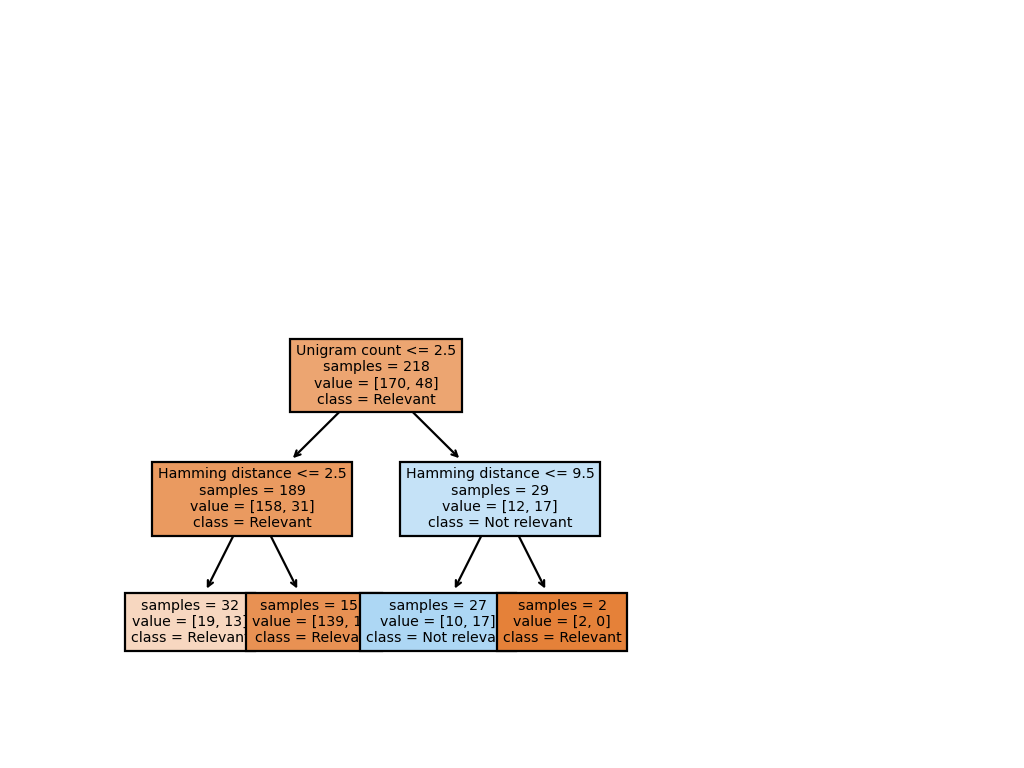
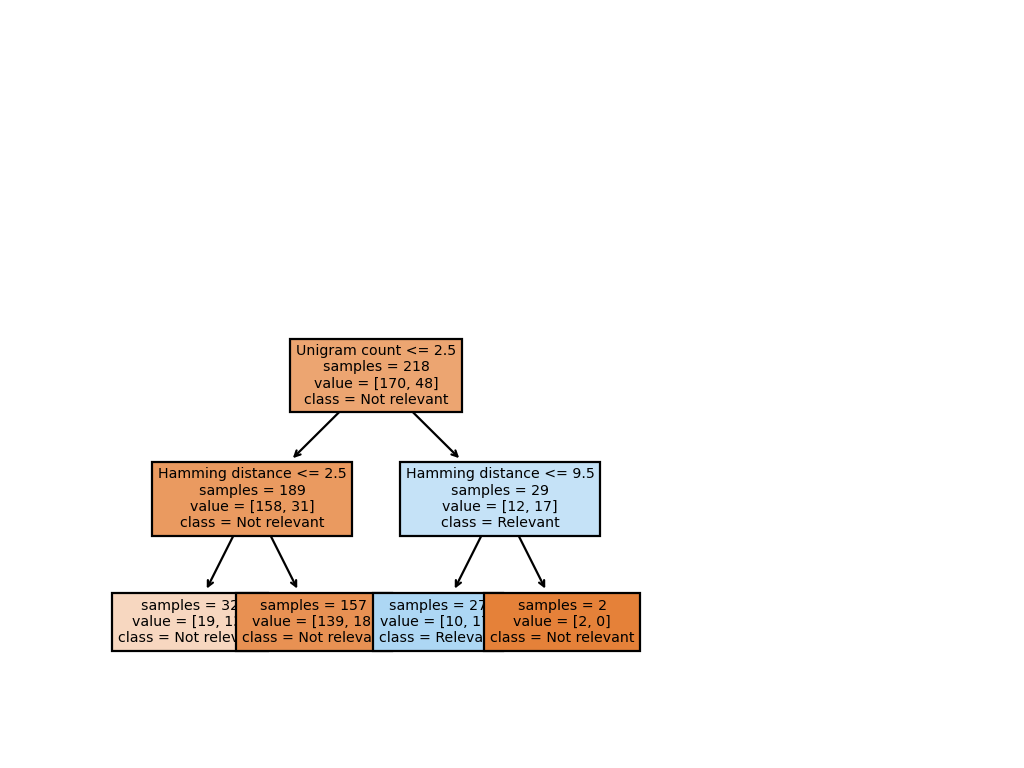
TensorFlow model for phrase similarity

diff --git a/chinesenotes/similarity_tf.py b/chinesenotes/similarity_tf.py
@@ -1,0 +1,121 @@
+# -*- coding: utf-8 -*-
+#
+# Licensed to the Apache Software Foundation (ASF) under one or more
+# contributor license agreements.  See the NOTICE file distributed with
+# this work for additional information regarding copyright ownership.
+# The ASF licenses this file to You under the Apache License, Version 2.0
+# (the "License"); you may not use this file except in compliance with
+# the License.  You may obtain a copy of the License at
+#
+#    http://www.apache.org/licenses/LICENSE-2.0
+#
+# Unless required by applicable law or agreed to in writing, software
+# distributed under the License is distributed on an "AS IS" BASIS,
+# WITHOUT WARRANTIES OR CONDITIONS OF ANY KIND, either express or implied.
+# See the License for the specific language governing permissions and
+# limitations under the License.
+#
+
+"""
+Trains a decision tree classifier for phrase similarity.
+
+Reads the input file and trains the classifier.
+"""
+
+import argparse
+import logging
+import numpy as np
+import pandas as pd
+import pathlib
+from sklearn.metrics import confusion_matrix
+import tensorflow as tf
+from tensorflow import feature_column
+from tensorflow import keras
+from tensorflow.keras import layers
+
+
+TRAIN_FILE_DEF = 'data/training_combined.csv'
+VALIDATION_FILE_DEF = 'data/validation_biyan.csv'
+
+
+def run(train_file: str, val_file: str):
+  """Load training and validation data and train the classifier
+
+  Args:
+    train_file: input file with phrase similarity training data
+    val_file: input file with phrase similarity training data
+  """
+  logging.info(f'Training data from: {train_file}')
+  train_df = pd.read_csv(train_file)
+  logging.info(f'Validation data from: {val_file}')
+  val_df = pd.read_csv(val_file)
+  print(train_df.head(3))
+  train_data = pd.DataFrame({
+    'QueryLength': train_df['Query'].str.len(),
+    'UnigramCount': train_df['Unigram Count'],
+    'Hamming': train_df['Hamming'],
+    'Relevant': train_df['Is Relevant']
+  })
+  val_data = pd.DataFrame({
+    'QueryLength': val_df['Query'].str.len(),
+    'UnigramCount': val_df['Unigram Count'],
+    'Hamming': val_df['Hamming'],
+    'Relevant': val_df['Is Relevant']
+  })
+  logging.info('Sample prepared data')
+  print(train_data.head(3))
+  logging.info('Summary of traininging data')
+  print(train_data.info())
+  logging.info('Summary of validation data')
+  print(train_data.info())
+  train_ds = to_dataset(train_data)
+  val_ds = to_dataset(val_data)
+  feature_columns = []
+  headers = ['QueryLength', 'UnigramCount', 'Hamming']
+  for header in headers:
+    feature_columns.append(feature_column.numeric_column(header))
+  feature_layer = tf.keras.layers.DenseFeatures(feature_columns)
+  model = tf.keras.Sequential([
+    feature_layer,
+    layers.Dense(128, activation='relu'),
+    layers.Dense(128, activation='relu'),
+    layers.Dropout(.1),
+    layers.Dense(1)
+  ])
+  model.compile(optimizer='adam',
+                loss=tf.keras.losses.BinaryCrossentropy(from_logits=True),
+                metrics=['accuracy'])
+  model.fit(train_ds,  validation_data=val_ds, epochs=10)
+  #y_pred = model.predict(train_ds)
+  #cm = confusion_matrix(headers, y_pred)
+  #print(cm)
+
+
+def to_dataset(df, batch_size=5):
+  """Convert from Pandas dataframe to TensorFlow dataset. """
+  df = df.copy()
+  labels = df.pop('Relevant')
+  ds = tf.data.Dataset.from_tensor_slices((dict(df), labels))
+  ds = ds.batch(batch_size)
+  return ds
+
+
+def main():
+  logging.basicConfig(level=logging.INFO)
+  parser = argparse.ArgumentParser()
+  parser.add_argument('--trainfile',
+                      dest='trainfile',
+                      default=TRAIN_FILE_DEF, 
+                      help='File name to read training data from')
+  parser.add_argument('--valfile',
+                      dest='valfile',
+                      default=VALIDATION_FILE_DEF, 
+                      help='File name to read validation data from')
+  args = parser.parse_args()
+  logging.info(f'Training neural net classifier from {args.trainfile}, output to {args.valfile}')
+  run(args.trainfile, args.valfile)
+
+
+# Entry point from a script
+if __name__ == "__main__":
+  main()

diff --git a/chinesenotes/similarity_train.py b/chinesenotes/similarity_train.py
@@ -32,11 +32,11 @@ from sklearn.metrics import classification_report
 from sklearn.tree import export_graphviz
 
 
-INFILE_DEF = 'data/phrase_similarity_training.csv'
+INFILE_DEF = 'data/phrase_similarity_combined.csv'
 OUTFILE_DEF = 'drawings/phrase_similarity_graph.png'
 
 
-def run(infile, outfile):
+def run(infile, outfile, val_file):
   """Load training data and train the classifier
 
   Args:
@@ -48,7 +48,10 @@ def run(infile, outfile):
   train(x, y, feature_names, outfile)
   x, y = load_training3(infile)
   feature_names = ['Unigram count', 'Hamming distance', 'Query length']
-  train(x, y, feature_names, outfile)
+  clf = train(x, y, feature_names, outfile)
+  if len(val_file) > 0:
+    x, y = load_training3(val_file)
+    validate(clf, x, y, feature_names)
 
 
 def train(x, y, feature_names, outfile):
@@ -59,6 +62,8 @@ def train(x, y, feature_names, outfile):
     y: list of target values
     feature_names: Names of feature variables
     outfile: file name to write graphviz export to
+  Returns:
+    the trained classifier
   """
   clf = tree.DecisionTreeClassifier(random_state=0,
                                     max_depth=2,
@@ -68,6 +73,7 @@ def train(x, y, feature_names, outfile):
   score = clf.score(x, y)
   logging.info(f'Classifier score: {score}\n')
   y_pred = clf.predict(x)
+  print("Training results")
   print(classification_report(y, y_pred))
   dot_data = tree.export_graphviz(clf, filled = True, rounded = True)
   graph = graphviz.Source(dot_data) 
@@ -81,6 +87,20 @@ def train(x, y, feature_names, outfile):
                  impurity=False)
   #plt.show()
   plt.savefig(outfile, dpi=160)
+  return clf
+
+
+def validate(clf, x, y, feature_names):
+  """Validate the classifier
+
+  Args:
+    x: list of values for feature variables
+    y: list of target values
+    feature_names: Names of feature variables
+  """
+  y_pred = clf.predict(x)
+  print("Validation results")
+  print(classification_report(y, y_pred))
 
 
 def load_training2(infile):
@@ -136,14 +156,18 @@ def main():
   parser.add_argument('--infile',
                       dest='infile',
                       default=INFILE_DEF, 
-                      help='File name to read infile from')
+                      help='File name to read training data from')
   parser.add_argument('--outfile',
                       dest='outfile',
                       default=OUTFILE_DEF, 
                       help='File name to write output to')
+  parser.add_argument('--valfile',
+                      dest='valfile',
+                      default="", 
+                      help='File name to read validation data from')
   args = parser.parse_args()
   logging.info(f'Training decision tree from {args.infile}, output to {args.outfile}')
-  run(args.infile, args.outfile)
+  run(args.infile, args.outfile, args.valfile)
 
 
 # Entry point from a script

diff --git a/README.md b/README.md
@@ -602,13 +602,19 @@ Note: total 199 segments, 2 errors (1 false negative, 1 false positive)
 
 ## Training for Phrase similarity
 
+### Setup
+
 Install the prerequisite libraries in the virtual env:
 
 ```shell
 python -m pip install -U matplotlib
 python -m pip install -U graphviz
 python -m pip install -U sklearn
+python -m pip install -U tensorflow
+python -m pip install -U pandas
 ```
+
+### Training Data
 
 To use sim_log_parser for parsing chinesenotes-go web app logs including
 similarity results.
@@ -628,14 +634,17 @@ python -m chinesenotes.sim_log_parser \
 Score the results for relevance in a spreadsheet and export to the CSV file
 `data/training_balanced.csv`. 
 
-Train a decision tree classifier:
+### Decision Tree Classifier
+
+Train and validate a decision tree classifier:
 
 ```shell
 python -m chinesenotes.similarity_train \
   --infile=data/training_balanced.csv \
-  --outfile=drawings/phrase_similarity_graph.png
+  --outfile=drawings/phrase_similarity_graph.png \
+  --valfile=data/validation_biyan.csv
 
-# output
+Training results
               precision    recall  f1-score   support
 
            0       0.84      0.94      0.89       170
@@ -655,6 +664,16 @@ weighted avg       0.79      0.81      0.79       218
 |   |   |--- class: 1
 |   |--- Hamming distance >  9.50
 |   |   |--- class: 0
+
+Validation results
+              precision    recall  f1-score   support
+
+           0       0.88      0.94      0.91        49
+           1       0.62      0.45      0.53        11
+
+    accuracy                           0.85        60
+   macro avg       0.75      0.70      0.72        60
+weighted avg       0.84      0.85      0.84        60
 ```
 
 
@@ -714,6 +733,20 @@ python -m chinesenotes.plot_sim_training \
   --outfile3=drawings/phrase_similarity_combined_plot.png \
   --unigram_lim3=2.5 \
   --hamming_lim3=9.5
+```
+
+### Neutral Net Classifier with Structured Data
+
+Train the neutral net with the command
+
+```shell
+python -m chinesenotes.similarity_tf \
+  --trainfile=data/training_combined.csv \
+  --valfile=data/validation_biyan.csv  
+
+# output
+Epoch 10/10
+48/48 [==============================] - 0s 835us/step - loss: 0.5144 - accuracy: 0.7416 - val_loss: 0.4352 - val_accuracy: 0.8333
 ```
 
 
